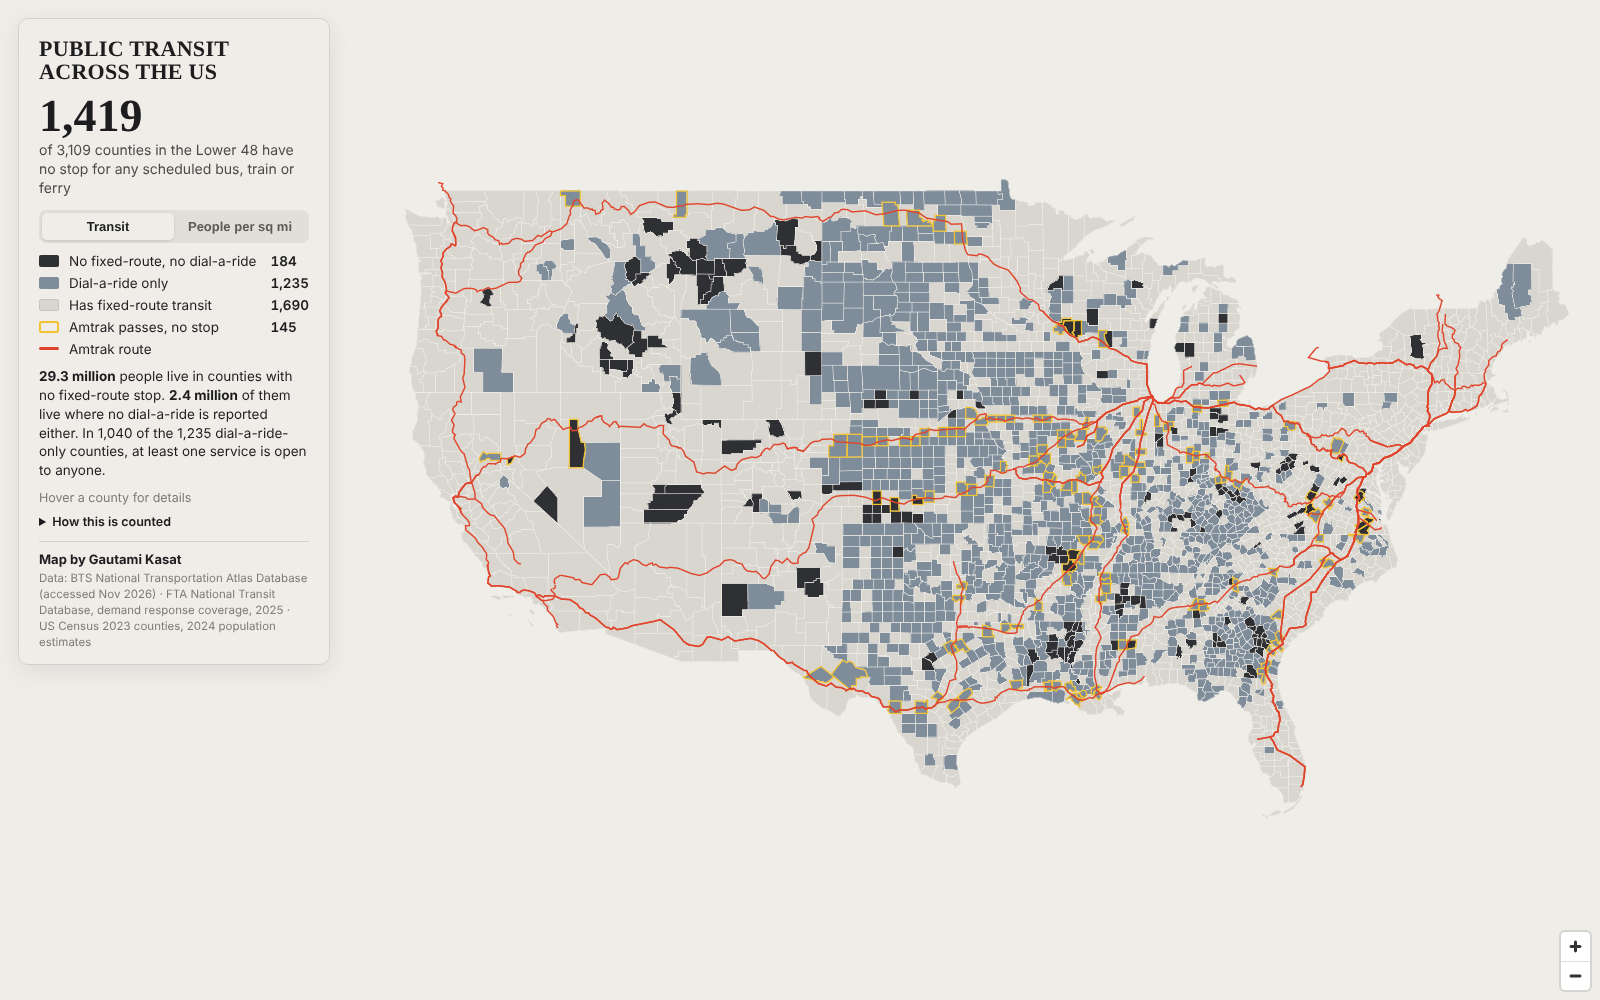
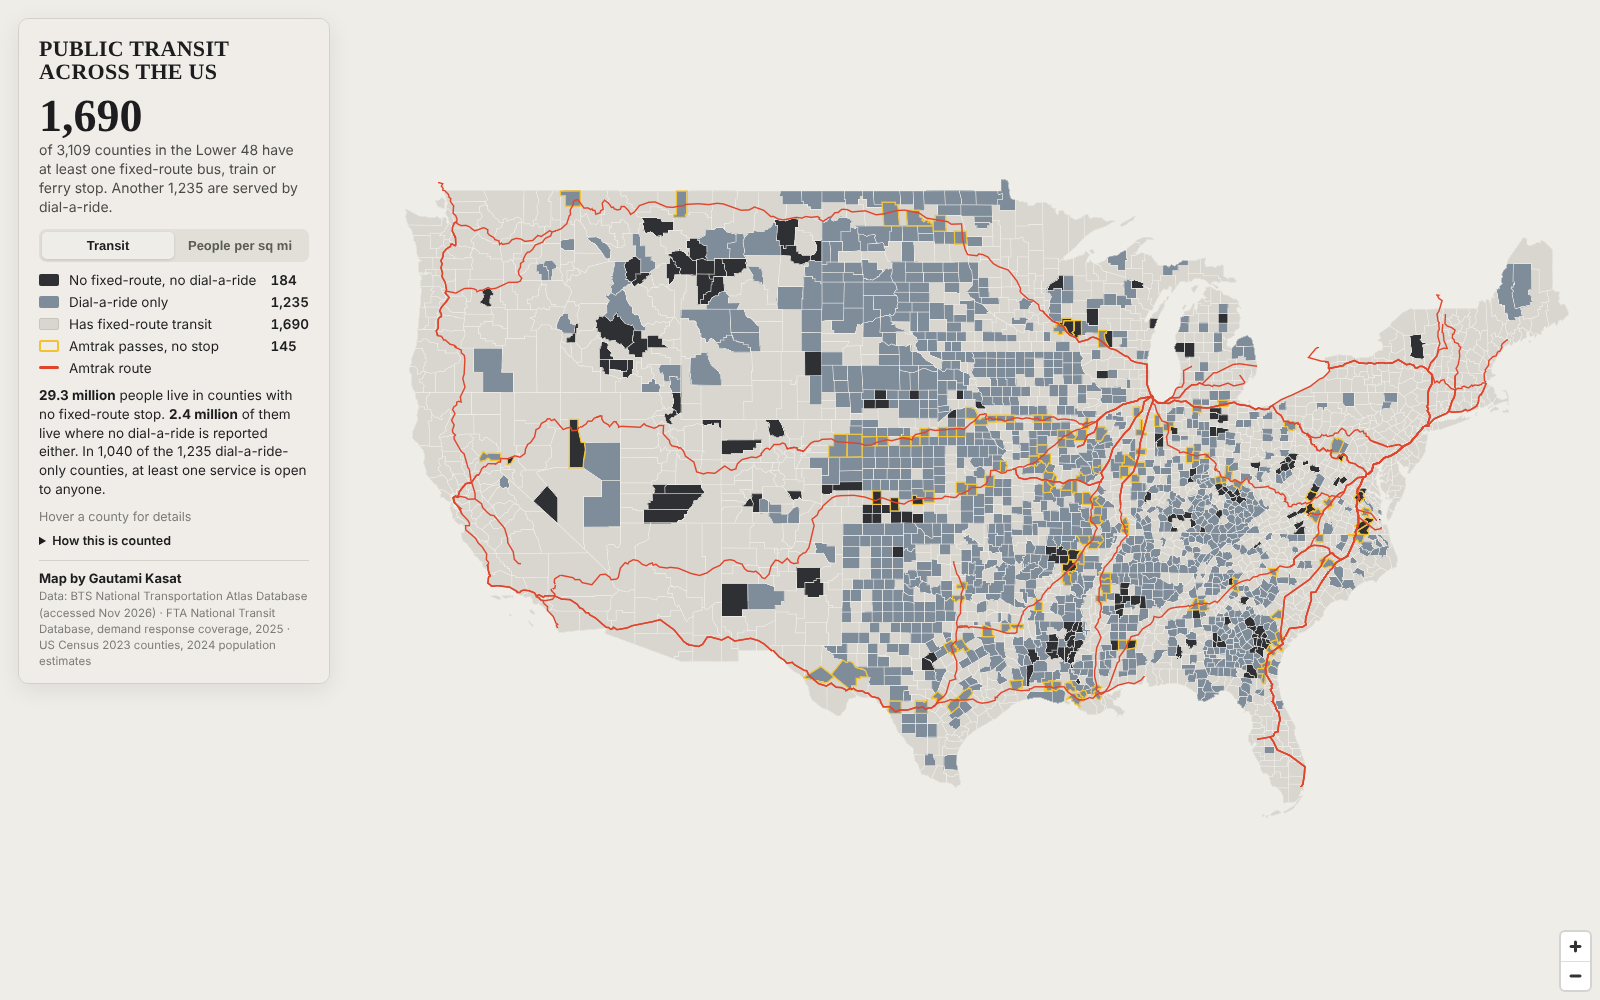
Day 18: headline leads with counties that have fixed-route transit
Claude-Session: https://claude.ai/code/session_016f3vJy45cJfbachEju2CvB

Changed region(s): [[0.0, 0.093, 0.1875, 0.682]]

diff --git a/output/day18_null-road-only-counties.html b/output/day18_null-road-only-counties.html
@@ -46,8 +46,9 @@
 <div id="map"></div>
 <div class="panel">
   <h1>Public Transit Across the US</h1>
-  <div class="big">1,419</div>
-  <div class="bigl">of 3,109 counties in the Lower 48 have no stop for any scheduled bus, train or ferry</div>
+  <div class="big">1,690</div>
+  <div class="bigl">of 3,109 counties in the Lower 48 have at least one fixed-route bus, train or ferry stop.
+    Another 1,235 are served by dial-a-ride.</div>
   <div class="tabs"><button id="t-access" class="on">Transit</button><button id="t-density">People per sq mi</button></div>
   <div id="k-access" class="key">
     <span class="sw" style="background:#2f3033"></span><span>No fixed-route, no dial-a-ride</span><span class="n">184</span>
